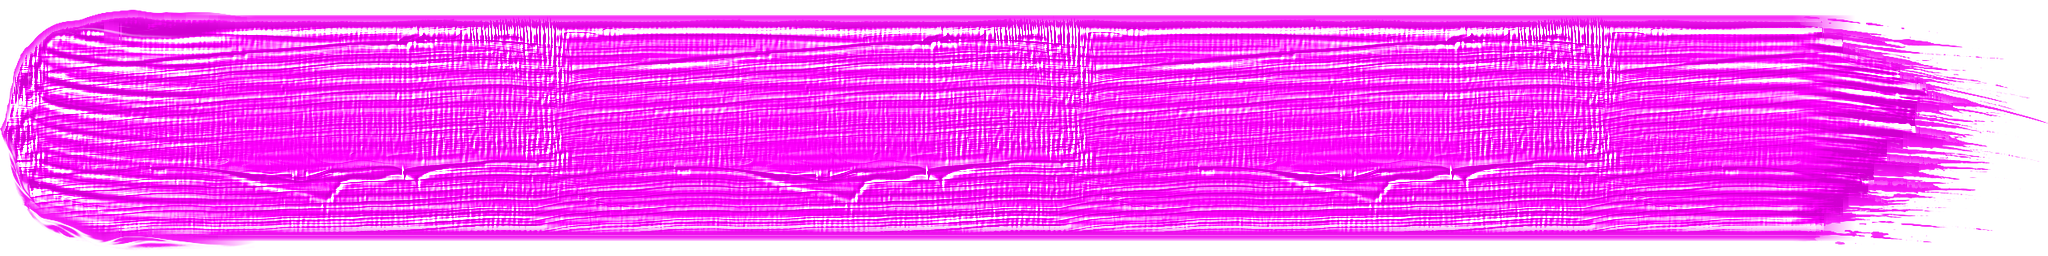
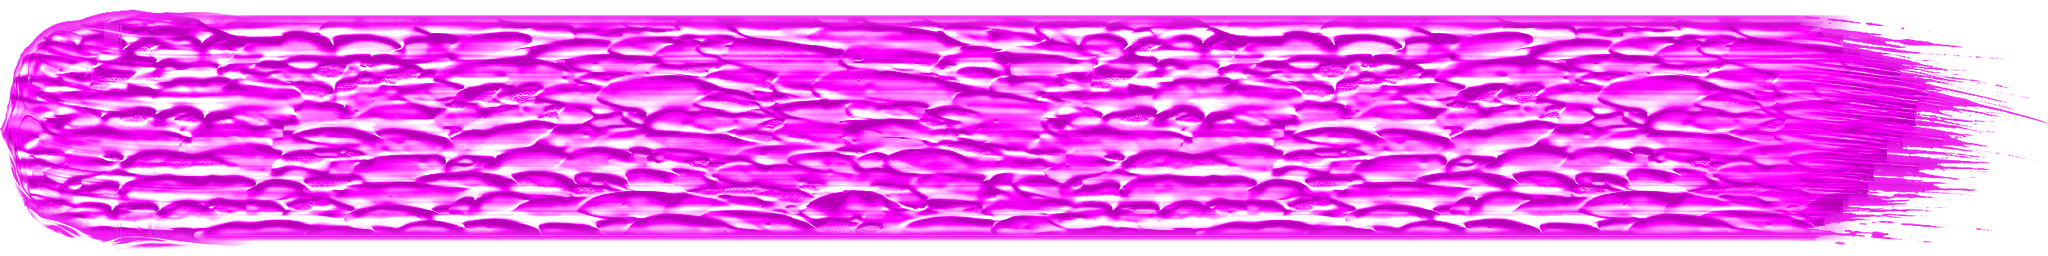
feat(brush): 납작붓 물감 입체 = Firefly 짧은 붓털 이랑 사진 명암(paintdab)
- 길게 끌린 paint3d 대신 짧고 엇갈린 이랑 사진을 빛 받은 표면 명암으로 직접 사용(PAINT 0.24, 이랑 3~5px)
- 붓결 줄 엠보스는 짧게 끊어 약하게 — 나무결·등고선 무늬 제거

diff --git a/scripts/process-ribbon.py b/scripts/process-ribbon.py
@@ -29,22 +29,26 @@ from texture_lib import _quilt_wrap_x, to_gray  # noqa: E402
 
 # 물감 표면(붓털 이랑) — Firefly 레이킹 라이트 임파스토 사진. 띠 전체에 깔아 «물감이 쌓인» 질감을 낸다
 # (2026-10-08 사용자 «물감도 파이어플라이로 쌓이는 질감 표현 못하나?»)
-PAINT_SRC = Path(__file__).resolve().parent.parent / "assets-src/textures/sources/firefly-paint3d.png"
-EMBOSS = 1.6  # 엠보스(높이 기울기 → 명암) 세기
-PAINT = 0.28  # dev 단위 세기
+# 짧고 엇갈린 붓털 이랑(paintdab) — paint3d(길게 끌린 가로선)는 띠에서 나무결·등고선처럼 보였다(2026-10-08)
+PAINT_SRC = Path(__file__).resolve().parent.parent / "assets-src/textures/sources/firefly-paintdab.png"
+PAINT_ROWS = 270
+EMBOSS = 2.6  # 엠보스(높이 기울기 → 명암) 세기 — 1.6 은 «튀어나오는 느낌» 부족(2026-10-08 사용자)
+PAINT = 0.24  # 물감 표면 명암 세기(dev 단위)
 
 
 def paint_layer(width: int, height: int) -> np.ndarray:
-    """(height, width) 가로 반복 물감 이랑 — 평균 0, 표준편차 1"""
+    """(height, width) 가로 반복 물감 표면 명암(이미 비스듬한 빛을 받은 사진) — 평균 0, 표준편차 1.
+    사진 세로 PAINT_ROWS 줄 → 띠 높이: 이랑 하나가 획에서 3~5px(아트봉봉 화면과 같은 크기)."""
     g = to_gray(np.asarray(Image.open(PAINT_SRC).convert("RGB")))
-    g = g[380:, :]  # 위쪽의 붓 그림 제외
     h, w = g.shape
     F = np.fft.fft2(g)
     fy = np.fft.fftfreq(h)[:, None]
     fx = np.fft.fftfreq(w)[None, :]
-    g = g - np.real(np.fft.ifft2(F * np.exp(-(fx**2 + fy**2) * (2 * np.pi * 3) ** 2 / 2)))  # 조명·큰 굴곡 제거(σ 3px) — 큰 이랑은 띠에서 반복 무늬로 보였다
-    k = height / h  # 사진 세로 전체 → 띠 높이
+    g = g - np.real(np.fft.ifft2(F * np.exp(-(fx**2 + fy**2) * (2 * np.pi * 30) ** 2 / 2)))  # 조명 기울기 제거(σ 30px)
+    y0 = (h - PAINT_ROWS) // 2
+    g = g[y0 : y0 + PAINT_ROWS]
     seg = _quilt_wrap_x(g, w - 96)  # 가로 이음매 없이
+    k = height / PAINT_ROWS
     t = np.asarray(
         Image.fromarray(seg.astype(np.float32), mode="F").resize((round(seg.shape[1] * k), height), Image.Resampling.BOX)
     )
@@ -170,11 +174,16 @@ def build(src_path: Path):
     tail_w = np.clip((xs - (END[0] - 120)) / 240, 0, 1)  # 끝 구간 앞 120px 부터 서서히
     dev = dev * (BODY_STREAK + (1 - BODY_STREAK) * tail_w)
     pl = paint_layer(dev.shape[1], dev.shape[0])
-    dev = dev + PAINT * pl * (1 - tail_w)
+    # 입체 높이 = 물감 사진 이랑 + 붓결 줄을 «짧게 끊은» 것. 줄을 그대로 높이로 쓰면 획 전체를 따라 긴 평행선
+    # (나무결·등고선)이 됐다 — 아트봉봉 이랑은 짧고 불규칙하다(2026-10-08 나란히 비교)
+    # 입체 = 사진 명암을 그대로(이미 빛을 받은 표면). 붓결 줄은 짧게 끊어 약한 엠보스만 —
+    # 줄을 길게 엠보스하면 나무결·등고선이 됐다(2026-10-08 나란히 비교)
+    lit = PAINT * pl * (1 - tail_w)
+    height = 0.3 * dev * dash_mask(dev.shape) * (1 - tail_w)
     # 테두리는 물감색 그대로(밝게) — 원본 사진은 가장자리가 그늘져 획 둘레에 검은 테가 돌았다
     # (2026-10-08 사용자 «테두리가 검은 빛, 아트봉봉은 흰빛»). 알파 경계에서 18줄 안쪽까지 셰이드를 1로 올린다.
     lift = edge_lift(A)
-    out = pack_channels(dev, A, lift)
+    out = pack_channels(dev, A, lift, height=height, lit=lit)
     # 가는 획용(획 폭 < 40px): 256 줄을 붓털 9가닥으로 묶고 대비를 더 키운다 — 원본은 몇 px 로
     # 줄어들면 가는 결이 평균으로 사라진다(유화붓 bristle-bold 와 같은 이유)
     bands = 9
@@ -196,13 +205,32 @@ def build(src_path: Path):
     # 가는 획: 테두리 흰 테 없이(rim 0) 가장자리 골만 지운다(12줄). 56줄 + 흰 테는 어두운 색에서
     # «가운데 검은 줄 + 바깥 흰 줄» 두 겹으로 갈라져 보였다(2026-10-08 사용자 ×3 확대 지적)
     lift_b = edge_lift(A, rows=12)
-    out_bold = pack_channels(dev_b, A, lift_b, rim=0.0)
+    out_bold = pack_channels(dev_b, A, lift_b, rim=0.0, height=height * 0.8, lit=lit * 0.9)
     info = dict(angle=round(float(ang), 2), crop=[int(top), int(bot), x0, x1], start_src=[x0, x0 + s_len], body_src=[b0, b0 + p_src],
                 body_period_tex=P, reps=reps, end_src=[e0, x1], body_cov=round(float(body_cov), 3))
     return out, out_bold, info
 
 
-def pack_channels(dev: np.ndarray, A: np.ndarray, lift: np.ndarray, rim: float = 0.2) -> np.ndarray:
+def dash_mask(shape: tuple[int, int], seed: int = 20261008) -> np.ndarray:
+    """0~1 얼룩 마스크 — 획 방향 ≈60px·폭 방향 ≈14px 덩어리(가로 반복 이음매 없게 FFT 주기 잡음)"""
+    h, w = shape
+    rng = np.random.default_rng(seed)
+    n = rng.standard_normal((h, w))
+    fy = np.fft.fftfreq(h)[:, None]
+    fx = np.fft.fftfreq(w)[None, :]
+    m = np.real(np.fft.ifft2(np.fft.fft2(n) * np.exp(-((fx * 60) ** 2 + (fy * 14) ** 2) * 2)))
+    m = (m - m.mean()) / m.std()
+    return np.clip(0.5 + m * 0.6, 0, 1)
+
+
+def pack_channels(
+    dev: np.ndarray,
+    A: np.ndarray,
+    lift: np.ndarray,
+    rim: float = 0.2,
+    height: np.ndarray | None = None,
+    lit: np.ndarray | None = None,
+) -> np.ndarray:
     """
     R = 물감 명암(골만 살짝 어둡게, 하한 0.72) · G = 붓결 하이라이트(밝은 줄 → 셰이더가 흰빛을 섞는다) · B = R.
     붓결을 어두운 골로만 그리면 획 전체가 고른 색보다 어둡고 «검은 느낌»이 났다(2026-10-08 사용자 두 번째 지적).
@@ -214,10 +242,10 @@ def pack_channels(dev: np.ndarray, A: np.ndarray, lift: np.ndarray, rim: float =
     # 띠는 획에서 1/3~1/6 로 줄어 그려진다 — 높이를 세로 σ2.5 로 흐리고 4px 어긋나게 비춰야 골이 몇 px 로 남는다
     k = np.exp(-(np.arange(-7, 8) ** 2) / (2 * 2.5**2))
     k /= k.sum()
-    hgt = np.apply_along_axis(lambda c: np.convolve(c, k, mode="same"), 0, dev)
+    hgt = np.apply_along_axis(lambda c: np.convolve(c, k, mode="same"), 0, dev if height is None else height)
     emb = (hgt - np.roll(np.roll(hgt, 4, 0), 2, 1)) * EMBOSS
-    shade = emb + dev * 0.35
-    r = np.clip(1 + np.minimum(shade, 0) * 0.6, 0.82, 1.0)  # 그늘은 옅게(검은 얼룩 금지)
+    shade = emb + dev * 0.35 + (0 if lit is None else lit)
+    r = np.clip(1 + np.minimum(shade, 0) * 0.8, 0.72, 1.0)  # 그늘은 물감색이 진해지는 것(곱하기) — 회색 아님
     g = np.clip(np.maximum(shade, 0) * 3.4, 0, 1)
     # 테두리는 몸통 «평균» 명암으로 — 1(가장 밝음)로 올리면 밝은 색은 흰 테, 어두운 색은 (골이 밝아지는
     # 셰이더 특성상) 오히려 가장 어두운 테가 되어, 덧칠할 때마다 붓질 윤곽선이 낙서처럼 남았다(2026-10-08).
